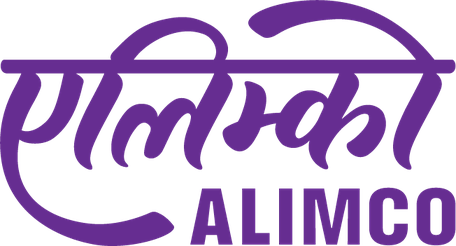
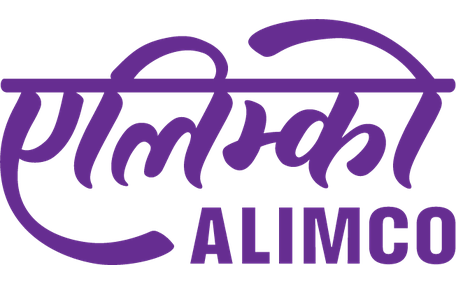
fix(brand): match the two attribution marks by ink area, not by height
Equal CSS height was not equal size. At `h-20` the two marks measured
101x80 and 148x80, and ALIMCO's strokes are far heavier than Swavlamban's
line art, so its rendered ink area came out 1.33x larger. It read as the
bigger logo even though both boxes were the same height.

Two fixes:

- `h-20 w-44` -> `h-20 w-auto`. The fixed width left a different amount of
  dead space to the right of each mark (101px of ink in a 176px box vs
  148px), so the captions were flush with their boxes but not with the
  artwork under them. With `w-auto` each column hugs its own mark and the
  caption spans exactly what is below it.

- alimco-mark.png is re-canvassed 456x246 -> 456x284, transparent padding
  split top/bottom, artwork pasted at x=0. Scaling to a fixed height now
  shrinks it by the 1.33x factor, equalising ink area. x=0 keeps the left
  edge flush with the caption; the padding is vertical only.

Measured after: 101x80 and 129x80, equal ink area, both starting at their
caption's x.

diff --git a/apps/web/src/components/login/BrandAttribution.tsx b/apps/web/src/components/login/BrandAttribution.tsx
@@ -26,11 +26,13 @@ export function BrandAttribution({
 }: Readonly<{ rows: Row[] | undefined }>): JSX.Element | null {
   if (!rows?.length) return null;
   return (
-    // Each row is a fixed-size box (`h-20 w-44`) so both marks get the same
-    // amount of room regardless of their aspect ratio, and `object-left` pins
-    // the artwork to the box's left edge — the same edge the caption starts
-    // at, so the mark sits directly under its own label rather than drifting
-    // toward the middle of a centred column.
+    // Marks are sized by HEIGHT only (`h-20 w-auto`), never by a fixed box.
+    // The two have different aspect ratios, so a shared fixed-width box left
+    // a different amount of empty space to the right of each one — the
+    // captions were flush with their boxes but the artwork underneath them
+    // was not the same width, which reads as misalignment. With `w-auto` the
+    // column hugs its own mark, so each caption spans exactly the mark below
+    // it.
     <div className="mt-8 flex items-start gap-12">
       {rows.map((row) => (
         <div key={`${row.label}-${row.name}`} className="flex flex-col items-start gap-2">
@@ -41,7 +43,7 @@ export function BrandAttribution({
               alt={row.name}
               width={352}
               height={160}
-              className="h-20 w-44 object-contain object-left"
+              className="h-20 w-auto object-contain object-left"
             />
           ) : (
             <span className="text-sm font-semibold text-ink-900">{row.name}</span>
